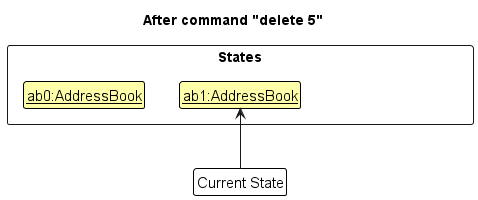
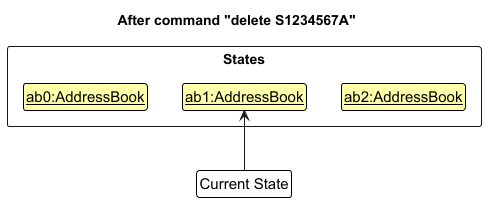
Update undo implementation in the developer guide

diff --git a/docs/DeveloperGuide.md b/docs/DeveloperGuide.md
@@ -158,7 +158,6 @@ This section describes some noteworthy details on how certain features are imple
 
 ### \[Proposed\] Undo/redo feature
 
-[Back to Table of Contents](#table-of-contents)
 #### Proposed Implementation
 
 The proposed undo/redo mechanism is facilitated by `VersionedAddressBook`. It extends `AddressBook` with an undo/redo history, stored internally as an `addressBookStateList` and `currentStatePointer`. Additionally, it implements the following operations:
@@ -175,7 +174,7 @@ Step 1. The user launches the application for the first time. The `VersionedAddr
 
 ![UndoRedoState0](images/UndoRedoState0.png)
 
-Step 2. The user executes `delete 5` command to delete the 5th person in the address book. The `delete` command calls `Model#commitAddressBook()`, causing the modified state of the address book after the `delete 5` command executes to be saved in the `addressBookStateList`, and the `currentStatePointer` is shifted to the newly inserted address book state.
+Step 2. The user executes `delete S1234567A` command to delete the 5th person in the address book. The `delete` command calls `Model#commitAddressBook()`, causing the modified state of the address book after the `delete S1234567A` command executes to be saved in the `addressBookStateList`, and the `currentStatePointer` is shifted to the newly inserted address book state.
 
 ![UndoRedoState1](images/UndoRedoState1.png)
 
@@ -244,15 +243,8 @@ The following activity diagram summarizes what happens when a user executes a ne
   * Pros: Will use less memory (e.g. for `delete`, just save the person being deleted).
   * Cons: We must ensure that the implementation of each individual command are correct.
 
-_{more aspects and alternatives to be added}_
-
 [Back to Table of Contents](#table-of-contents)
-### \[Proposed\] Data archiving
 
-_{Explain here how the data archiving feature will be implemented}_
-
-
-[Back to Table of Contents](#table-of-contents)
 ## **Documentation, logging, testing, configuration, dev-ops**
 
 * [Documentation guide](Documentation.md)
